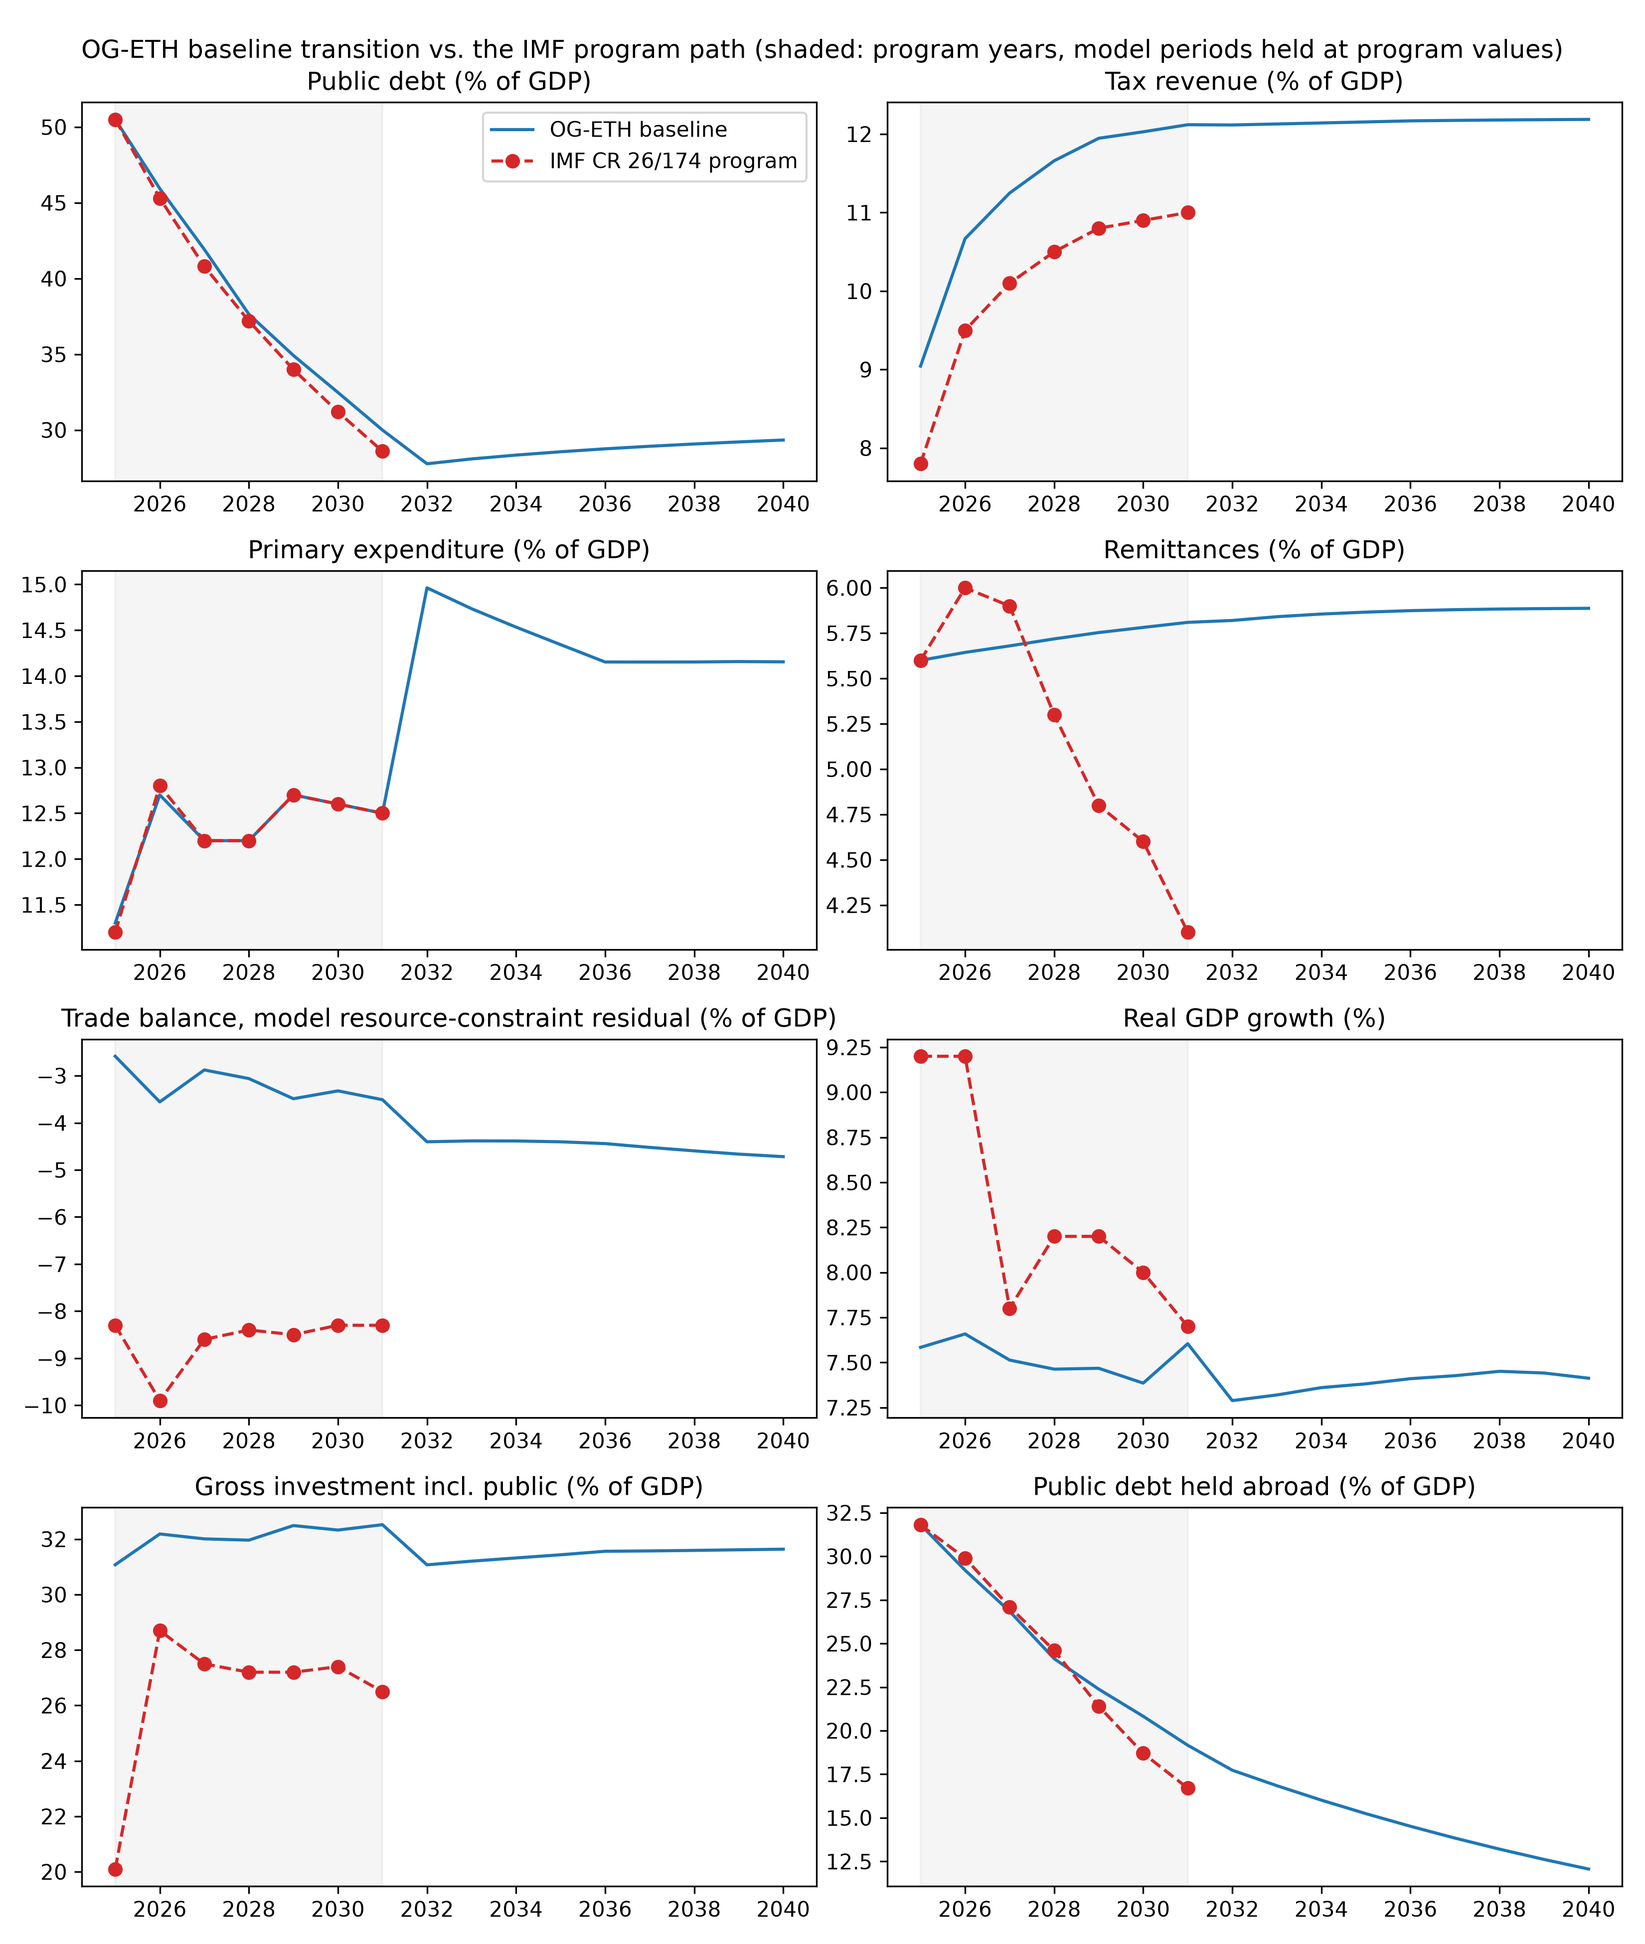
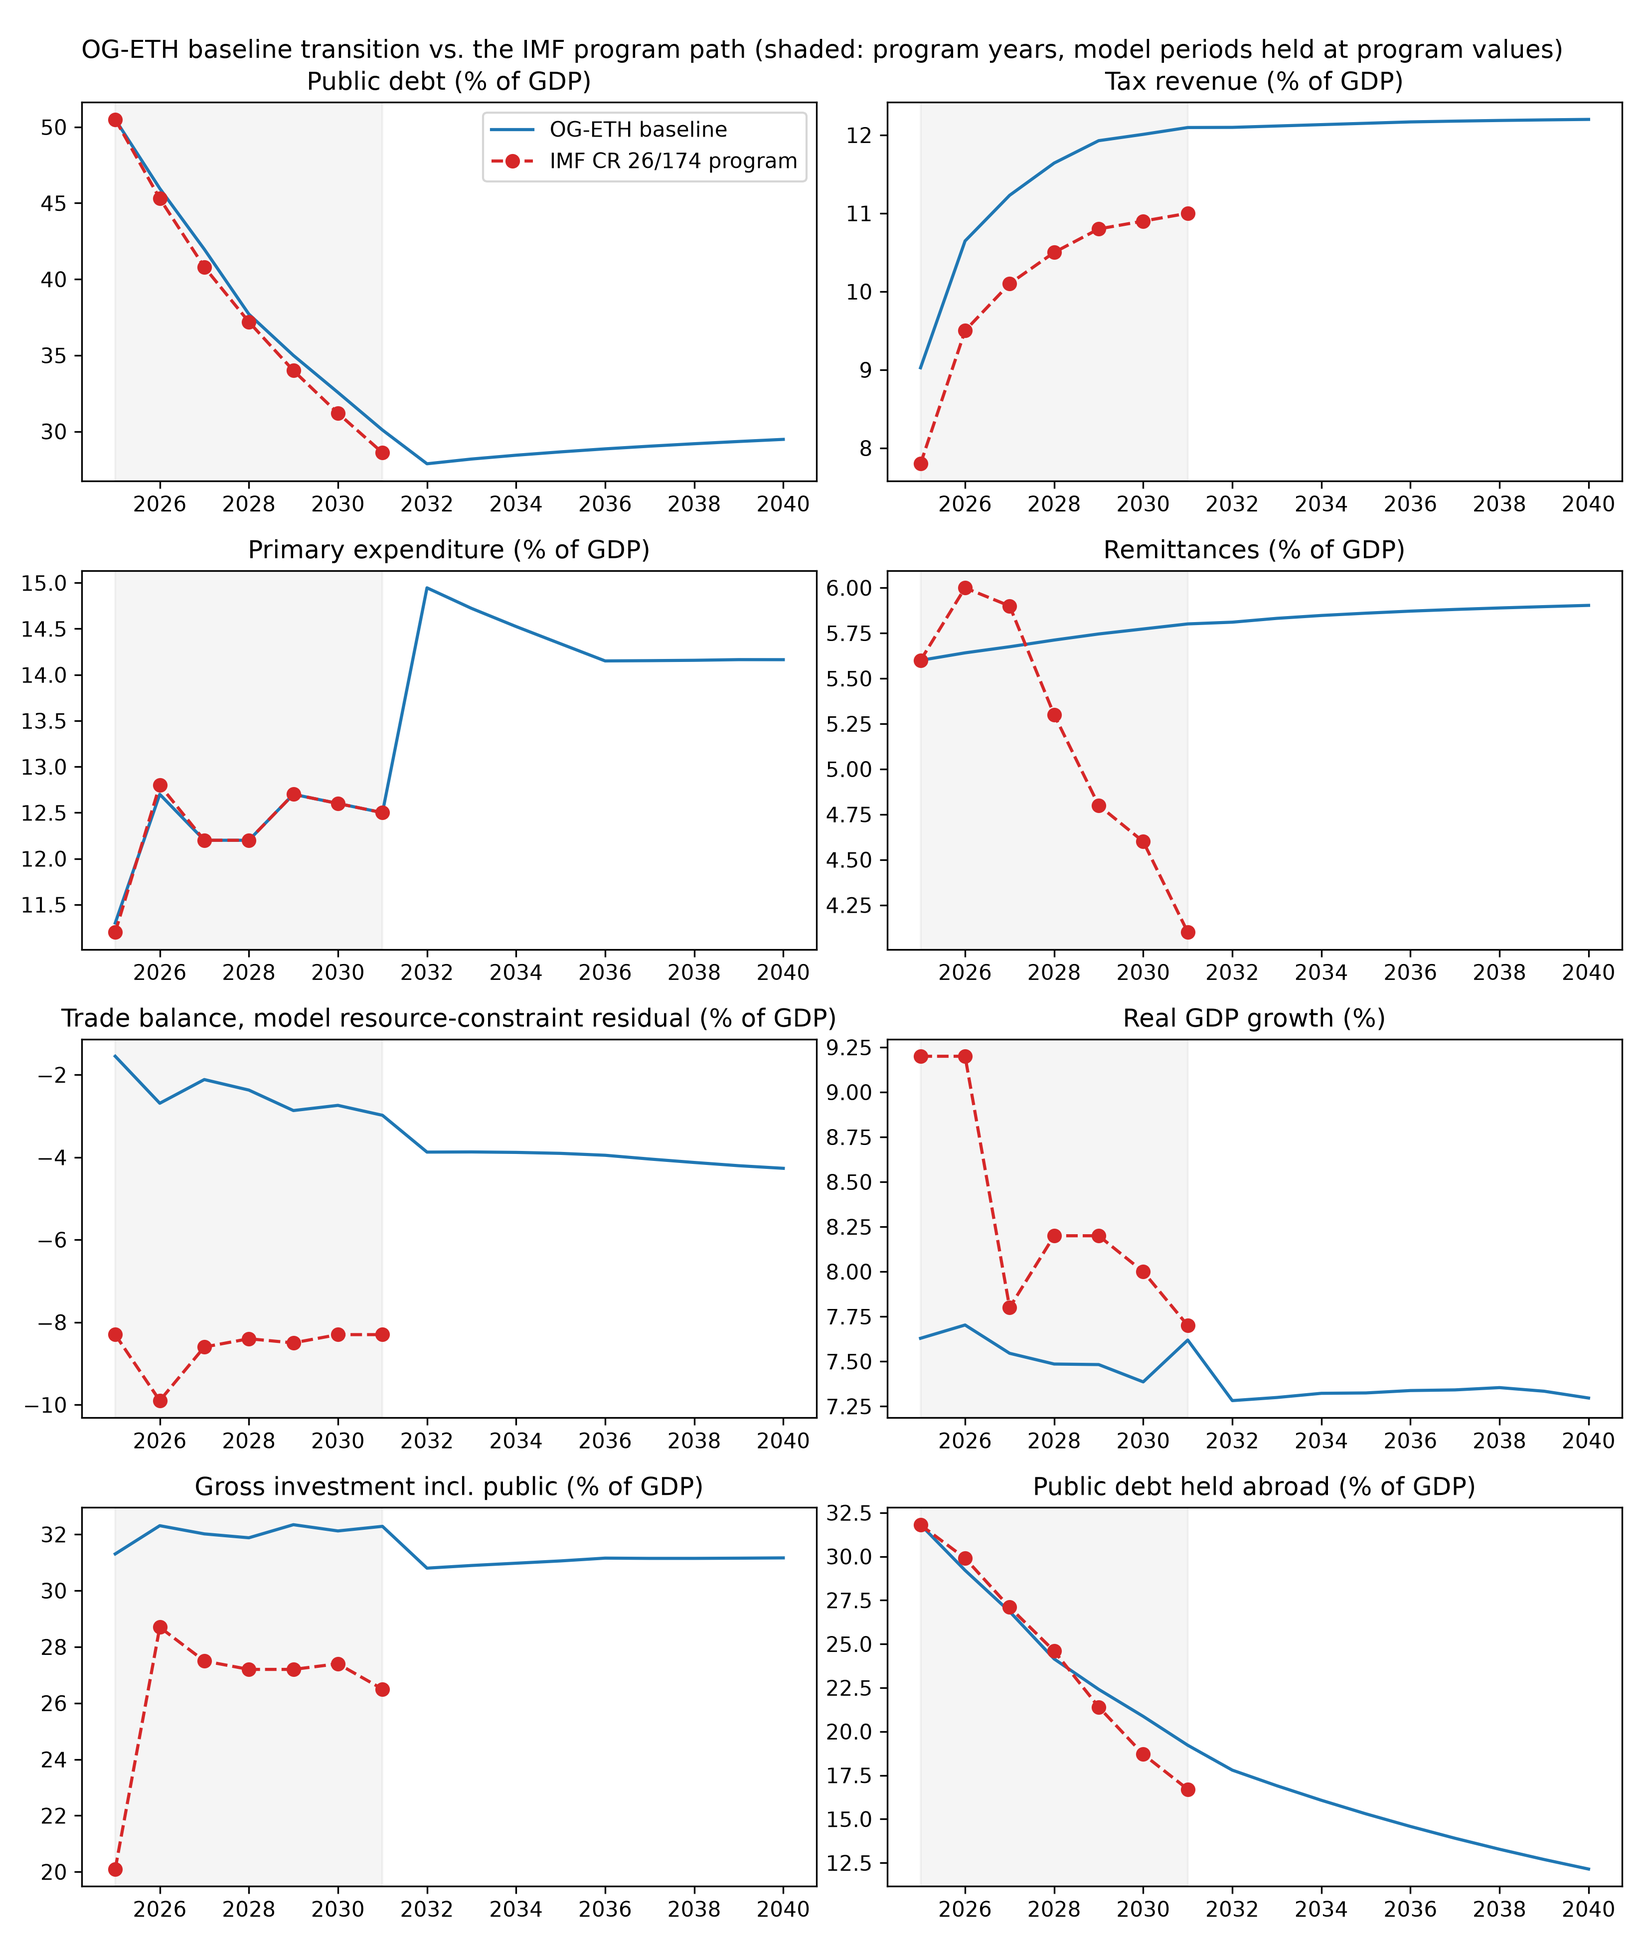
Refresh the validation table and program figure to the run with the new earnings and labor profiles

diff --git a/docs/book/content/calibration/macro.md b/docs/book/content/calibration/macro.md
@@ -155,30 +155,30 @@ Most of the parameters on this page are only weakly identified from the data on 
 
 | Steady-state moment | OG-ETH baseline | Ethiopia data | Data source |
 |:---|:---:|:---:|:---|
-| Government debt $D/Y$ | 0.30; path 50.5 → 30.0% by FY2030/31 | 0.30 (long-run target); 50.5 → 28.6% (FY2024/25 → FY2030/31) | IMF CR 26/174, Table 1 |
+| Government debt $D/Y$ | 0.30; path 50.5 → 30.1% by FY2030/31 | 0.30 (long-run target); 50.5 → 28.6% (FY2024/25 → FY2030/31) | IMF CR 26/174, Table 1 |
 | Foreign-held debt share $D_f/D$ | 0.15; external debt 31.8 → 19.2% of GDP by FY2030/31 | 0.63 (FY2024/25); external debt 31.8 → 16.7% | IMF CR 26/174, Table 1 |
 | Real effective rate on public debt $r_{gov}$ | −3.2 to −1.2% through FY2030/31; 2.0% long run | negative through FY2030/31 (5.2% nominal on the stock vs 8.6% deflator); ~0.8% on new external commitments | IMF CR 26/174; MoF Bulletin 56 |
-| Tax revenue $T/Y$ | 0.122; path 9.0 → 12.1% | 0.110 (FY2030/31 program); 7.8 → 11.0% | IMF CR 26/174, Table 2b |
+| Tax revenue $T/Y$ | 0.123; path 9.0 → 12.1% | 0.110 (FY2030/31 program); 7.8 → 11.0% | IMF CR 26/174, Table 2b |
 | Personal income tax / $Y$ | 0.026; path 1.4 → 2.6% with formalization | 0.014 (FY2024/25) | IMF SIP 2025/108 |
 | Corporate income tax / $Y$ | 0.027 | 0.017 (FY2024/25); a third of the program's revenue gains allocated here | IMF SIP 2025/108; assumption |
 | Consumption taxes / $Y$ | 0.052 | 0.039 (FY2024/25) plus two thirds of the program's revenue gains | IMF CR 26/174; assumption |
-| Government consumption $G/Y$ | 0.074 (closure) | 0.059 (FY2030/31, recurrent net of interest and cash transfers) | IMF CR 26/174, Table 2b |
+| Government consumption $G/Y$ | 0.075 (closure) | 0.059 (FY2030/31, recurrent net of interest and cash transfers) | IMF CR 26/174, Table 2b |
 | Cash transfers $TR/Y$ | 0.015, targeted by programme (41% to the poorest quarter) | 0.015 (FY2026/27 onward) | IMF CR 26/174 |
 | Public investment $I_g/Y$ | 0.051 | 0.051 (FY2030/31) | IMF CR 26/174, Table 2b |
 | Remittances $RM/Y$ | 0.056 | 0.056 (FY2024/25); program projects 0.041 by FY2030/31 | IMF CR 26/174, Table 4b |
-| Foreign-owned capital $K_f/Y$ | 0.25 (0.23 initially) | ~0.24 (FDI stock) | UNCTAD / WB |
-| Foreign-owned capital share $K_f/K$ | 0.11 | low (near-closed account) | Chinn-Ito; BoP IIP |
-| Capital-output $K/Y$ | private 2.2 (2.1 initially); total incl. public 2.5 | ~2.2 (total) | Penn World Table |
-| Household wealth $B/Y$ | 2.25 (steady state); 2.04 (initial) | 2.15 (K/Y less FDI stock plus domestic debt) | PWT, UNCTAD, IMF |
-| Total investment $(I+I_g)/Y$ | 0.32 | 0.20 (FY2024/25); 0.27 (program, FY2030/31) | IMF CR 26/174, Table 1 |
+| Foreign-owned capital $K_f/Y$ | 0.27 (0.25 initially) | ~0.24 (FDI stock) | UNCTAD / WB |
+| Foreign-owned capital share $K_f/K$ | 0.12 | low (near-closed account) | Chinn-Ito; BoP IIP |
+| Capital-output $K/Y$ | private 2.2 (2.0 initially); total incl. public 2.5 | ~2.2 (total) | Penn World Table |
+| Household wealth $B/Y$ | 2.17 (steady state); 1.92 (initial) | 2.15 (K/Y less FDI stock plus domestic debt) | PWT, UNCTAD, IMF |
+| Total investment $(I+I_g)/Y$ | 0.31 (0.31–0.32 along the program) | 0.20 (FY2024/25); 0.27 (program, FY2030/31) | IMF CR 26/174, Table 1 |
 | Private consumption $C/Y$ | 0.66 | 0.81 (FY2024/25; BGP ~0.65–0.70) | WDI `NE.CON.PRVT.ZS` |
-| Trade balance $NX/Y$ | −0.055 (−0.03 to −0.035 along the program) | −0.083 (goods and services, FY2024/25 and FY2030/31) | IMF CR 26/174, Table 4b |
-| Real return on capital $r$ | 0.075 | high (capital-scarce); FDI return in Africa 6.3% | model-implied MPK; UNCTAD |
-| Real GDP growth | 7.4–7.7% over the program | 9.2 → 7.7% | IMF CR 26/174, Table 1 |
+| Trade balance $NX/Y$ | −0.049 (−0.015 to −0.03 along the program) | −0.083 (goods and services, FY2024/25 and FY2030/31) | IMF CR 26/174, Table 4b |
+| Real return on capital $r$ | 0.079 | high (capital-scarce); FDI return in Africa 6.3% | model-implied MPK; UNCTAD |
+| Real GDP growth | 7.3–7.7% over the program | 9.2 → 7.7% | IMF CR 26/174, Table 1 |
 
-**What matches.**  The fiscal block is internally consistent and on the data.  The transition ({numref}`CalibVsProgram`) reproduces the program's primary expenditure exactly, its tax revenue to within a point of GDP (the model's FY2024/25 base is a point above the IMF's tax line and follows the same increments), its external debt ratio to within 2.5 points (with $\zeta_D$ on the program's external/domestic split), and — with the sovereign rate on the program-implied negative real rates — **its debt ratio to within 1.4 points of GDP in every program year**, landing at 30.0 percent in FY2030/31 against 28.6, and at the 30 percent target thereafter without a jump.  Real growth runs 7.4–7.7 percent against the program's 7.7–9.2; the remittance share holds at 5.6–5.8 percent.  The capital block sits on its anchors: private capital starts at 2.1 times GDP and settles at 2.2, the foreign-owned capital stock at 0.23–0.25 of GDP against the 0.24 FDI stock, and household wealth starts at 2.04 and settles at 2.25 against the 2.15 the data imply.
+**What matches.**  The fiscal block is internally consistent and on the data.  The transition ({numref}`CalibVsProgram`) reproduces the program's primary expenditure exactly, its tax revenue to within a point of GDP (the model's FY2024/25 base is a point above the IMF's tax line and follows the same increments), its external debt ratio to within 2.5 points (with $\zeta_D$ on the program's external/domestic split), and — with the sovereign rate on the program-implied negative real rates — **its debt ratio to within 1.5 points of GDP in every program year**, landing at 30.1 percent in FY2030/31 against 28.6, and at the 30 percent target thereafter without a jump.  Real growth runs 7.3–7.7 percent against the program's 7.7–9.2; the remittance share holds at 5.6–5.8 percent.  The capital block sits on its anchors: private capital starts at 2.0 times GDP and settles at 2.2, the foreign-owned capital stock at 0.25–0.27 of GDP against the 0.24 FDI stock, and household wealth starts at 1.92 and settles at 2.17 against the 2.15 the data imply (the initial anchor is set relative to steady-state output, and output starts above its steady state because the public capital stock starts above its own).
 
-**What does not, and why.**  Two gaps remain.  *Investment* is 31–32 percent of GDP against the program's 27, and total capital (private plus public) 2.5 times GDP against the Penn World Table's 2.2.  The two are the same fact: on a balanced growth path investment must replace depreciation and equip growth, $(g+\delta)(K+K_g)/Y \approx 0.12 \times 2.5 = 0.30$, and the model's public capital stock (0.29 of GDP in the steady state, starting from the measured 0.67) is what keeps total capital above the Penn World Table — the two sources disagree with each other about how much public capital Ethiopia has, and the model follows the IMF's public-capital stock.  *The trade deficit* is 3–3.5 percent of GDP along the program and 5.9 percent in the steady state against 8.3 percent in the data.  The model's deficit is what remittances, grants and foreign capital inflows finance net of factor payments abroad; the data's is also financed by about 3 percent of GDP a year of FDI and by official borrowing, and Ethiopia's foreign capital inflow in the model is smaller because the foreign-owned stock is already near its long-run level.  Neither gap is a parameter away: they follow from the single-capital-good, balanced-growth structure of the model, and are reported here as its limits rather than calibrated around.  The remaining rows are where they were: the long-run consumption share sits between Ethiopia's crisis-depressed current value and a balanced-growth level, and the foreign-held debt share converges from the initial 0.63 toward $\zeta_D$.
+**What does not, and why.**  Two gaps remain.  *Investment* is 31–32 percent of GDP against the program's 27, and total capital (private plus public) 2.5 times GDP against the Penn World Table's 2.2.  The two are the same fact: on a balanced growth path investment must replace depreciation and equip growth, $(g+\delta)(K+K_g)/Y \approx 0.12 \times 2.5 = 0.30$, and the model's public capital stock (0.29 of GDP in the steady state, starting from the measured 0.67) is what keeps total capital above the Penn World Table — the two sources disagree with each other about how much public capital Ethiopia has, and the model follows the IMF's public-capital stock.  *The trade deficit* is 1.5–3 percent of GDP along the program and 4.9 percent in the steady state against 8.3 percent in the data.  The model's deficit is what remittances, grants and foreign capital inflows finance net of factor payments abroad; the data's is also financed by about 3 percent of GDP a year of FDI and by official borrowing, and Ethiopia's foreign capital inflow in the model is smaller because the foreign-owned stock is already near its long-run level.  Neither gap is a parameter away: they follow from the single-capital-good, balanced-growth structure of the model, and are reported here as its limits rather than calibrated around.  The remaining rows are where they were: the long-run consumption share sits between Ethiopia's crisis-depressed current value and a balanced-growth level, and the foreign-held debt share converges from the initial 0.63 toward $\zeta_D$.
 
 (SecLWI_footnotes)=
 ## Footnotes

diff --git a/CHANGELOG.md b/CHANGELOG.md
@@ -10,7 +10,7 @@ and this project adheres to [Semantic Versioning](https://semver.org/spec/v2.0.0
 ### Changed
 * Recalibrated the lifetime earnings profiles `e` with Ethiopian data instead of a one-number tilt of the OG-USA profiles. The OG-USA matrix is now reshaped along both of its dimensions: over age with the National Transfer Accounts labor-income profile per worker (Ethiopia 2005 against the United States 2006, each divided by the ILOSTAT employment ratio of the same year), and across lifetime-income groups with the World Inequality Database's pre-tax income shares (Ethiopia against the United States, both 2021). Both are like-for-like ratios, so the concept gap between the US estimates (lifetime labor earnings of workers) and the survey aggregates (annual income per adult) cancels to first order. Ethiopian earnings per worker peak in the late thirties and fall to about half the US relative level after 60, so the age profile of `e` relative to the thirties goes from 0.65/1.32/1.50/1.49 (twenties/forties/fifties/sixties, the US shape) to 0.69/1.21/1.06/0.72; the lifetime means of the seven groups are now 0.54, 0.68, 0.82, 1.01, 1.25, 2.71 and 5.87 (the top percent at 10.8 times the bottom quarter, from 8.8), with a Gini of 0.347 over the model population. This closes #33: the previous calibration matched a World Bank *consumption* Gini for Ethiopia (31.1) against an *income* Gini for the United States (41.5). The inputs ship as small CSV files in `ogeth/data/` and `python -m ogeth.income` regenerates the packaged matrix; `get_e_interp` no longer takes a Gini target and scales `e` on the model's own joint age-by-group population, and `Calibration` no longer requests a second set of 80-period demographics for it. `tests/test_income.py` covers the reshaping and pins the packaged matrix (#39).
 * Calibrated the age profile of the disutility of labor `chi_n` to Ethiopian hours, instead of shipping OG-USA's eighty values as every OG-Core country model has done. The targets are hours worked per week per person by age from the 2021 Labour Force and Migration Survey (employment-to-population ratio times mean weekly hours of the employed), measured as OG-USA does against a 16-hour day, seven days a week, and tapered beyond the survey's open 65+ band with the NTA labor-income profile. `ogeth/labor.py` (rewritten from orphaned South African survey code) solves the steady state repeatedly, rescaling `chi_n` between solves by the ratio of marginal disutilities at the model's and the target's labor supply; from the OG-USA profile it converges in six solves to within 1.7 percent at every age from 20 to 79. Households in the model had been working about 46 percent of their time at every prime age, twice the survey's hours; they now work 19 hours a week per person at 20–24, 25 at 30–44, 20 in the fifties, 16 at 60–64 and 10 at 65–69. The weights rise from 20–25 (US) to 250–500 in the prime ages and reach OG-Core's cap of 10,000 from the late seventies. `python -m ogeth.labor` regenerates the profile and the steady-state initial guesses; the broken `ogeth/test_est_chi_n.py` driver is removed and `tests/test_labor.py` covers the targets and the update rule (closes the `chi_n` half of #71).
-* Re-anchored the parameters that depend on the earnings and labor profiles. The compliant-group income-tax rate `etr_params` moves from 0.1313 to 0.1207 so that personal income tax still collects 1.4 percent of GDP in the first model period (the two compliant groups earn a larger share of labor income under the new profiles); the sovereign-rate shift path is re-evaluated at the new steady-state return on capital (7.9 percent, from 7.6); and the steady-state initial guesses are those of the calibrated solve. The reform steady state is now solved from the packaged initial guesses rather than from the baseline solution (`reform_use_baseline_solution` is false): with the calibrated `chi_n` the root finder stalled when started at the baseline solution, and the sweep over the packaged guesses is the same procedure the baseline uses.
+* Re-anchored the parameters that depend on the earnings and labor profiles. The compliant-group income-tax rate `etr_params` moves from 0.1313 to 0.1207 so that personal income tax still collects 1.4 percent of GDP in the first model period (the two compliant groups earn a larger share of labor income under the new profiles); the sovereign-rate shift path is re-evaluated at the new steady-state return on capital (7.9 percent, from 7.6); and the steady-state initial guesses are those of the calibrated solve. The reform steady state is now solved from the packaged initial guesses rather than from the baseline solution (`reform_use_baseline_solution` is false): with the calibrated `chi_n` the root finder stalled when started at the baseline solution, and the sweep over the packaged guesses is the same procedure the baseline uses. With the new profiles the full example runs cleanly (baseline and corporate-tax-cut reform, steady-state resource-constraint errors of 1e-14): the debt ratio follows the program to within 1.5 points of GDP in every year and lands at 30.1 percent in FY2030/31 (28.6 in the program), tax revenue goes from 9.0 to 12.1 percent of GDP, the steady-state return on capital is 7.9 percent with private capital at 2.2 times GDP and household wealth at 2.17, and the corporate-tax cut from 30 to 25 percent raises long-run GDP by 0.25 percent and the capital stock by 1.1 percent. The validation table in `macro.md` is refreshed to this run.
 
 ## [0.3.0] - 2026-09-09 12:00:00
 
